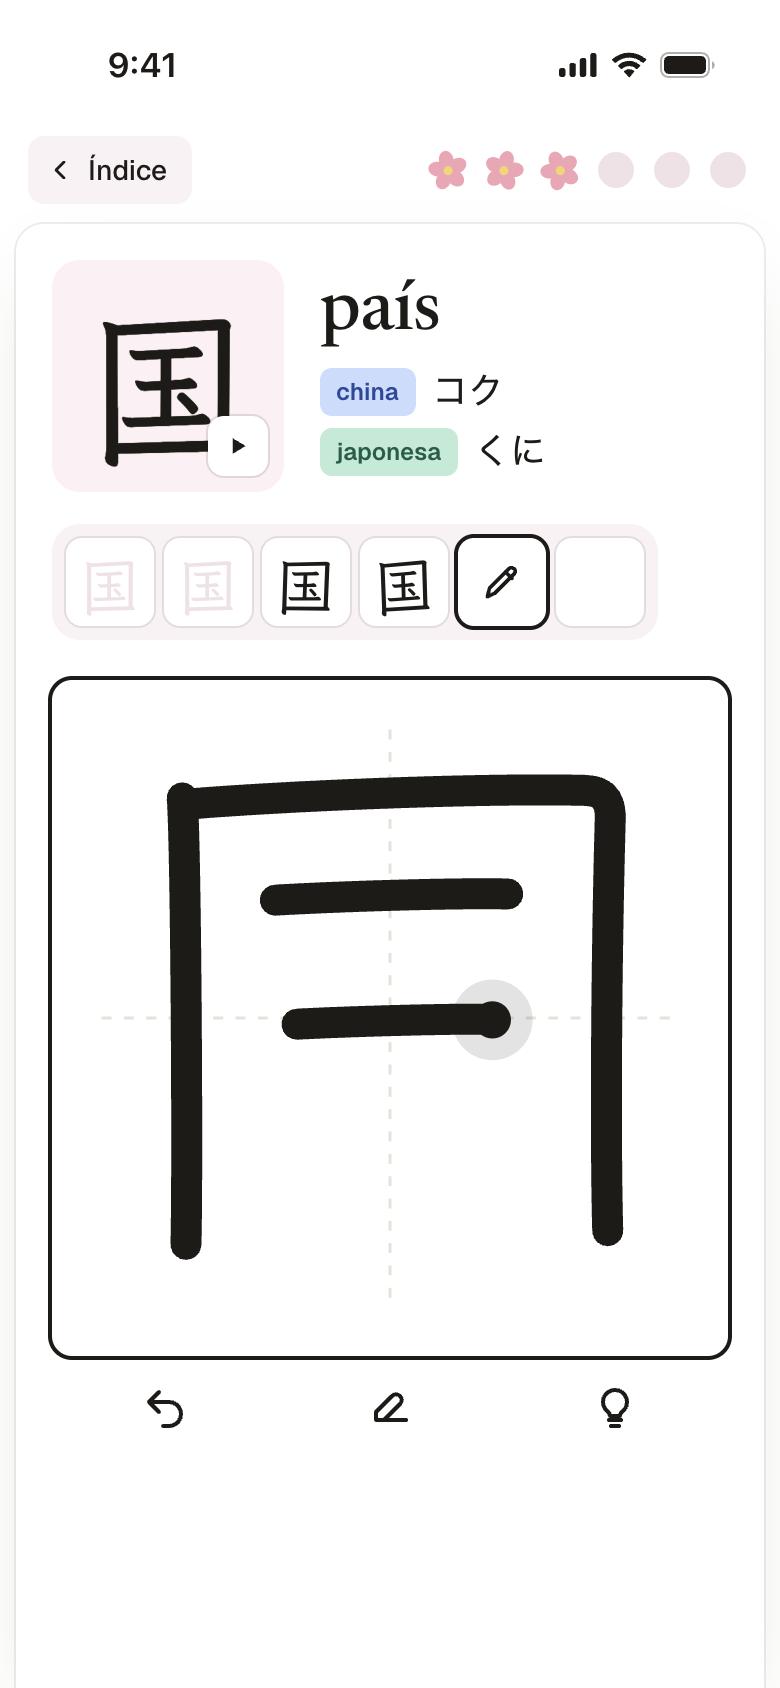
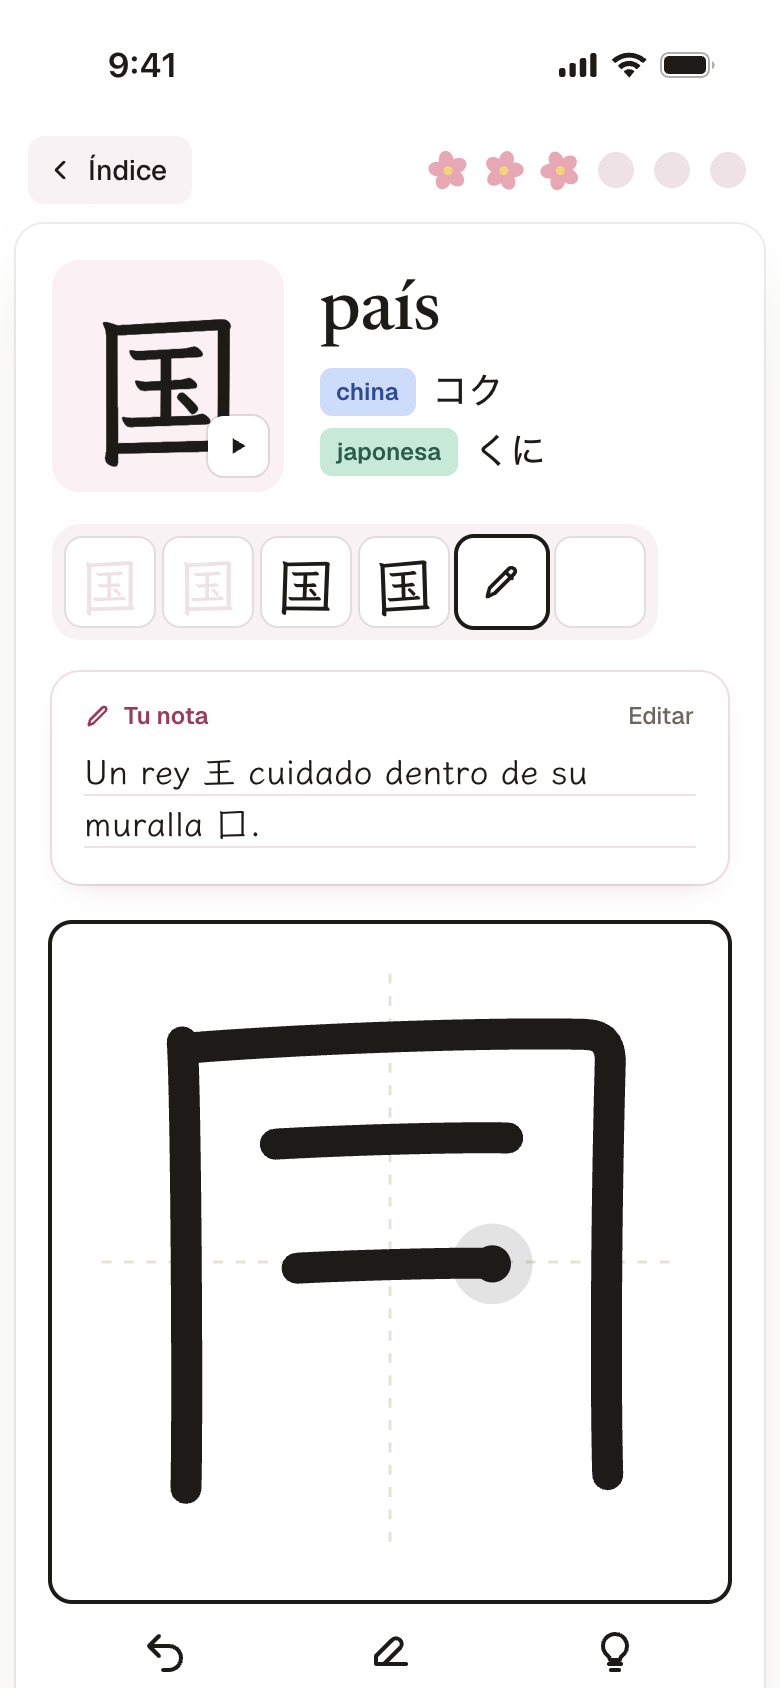
NOE-559 Quitar todas las sticky notes: la nota propia pasa a tarjeta con renglones

diff --git a/docs/DESIGN.md b/docs/DESIGN.md
@@ -32,7 +32,7 @@ los de repaso, examen, estados, cuenta y créditos. Exportes en `docs/rediseno/d
 | sakura | `#FDF0F3` fondo, `#FBE4EA` chip, `#C2456A` y `#9E2A44` tinta | color de Kanjy: kanji grande, repaso, «Otra vez», frases |
 | lectura china | `#CADDFF` / `#234A9C` | etiqueta «china» |
 | lectura japonesa | `#BDEBD6` / `#0D5E46` | etiqueta «japonesa» |
-| marcatextos | `#FFE08A` | resaltar el kanji dentro de una frase; nota propia |
+| marcatextos | `#FFE08A` | solo resaltar el kanji dentro de una frase |
 | pluma roja | `#C8402F` | solo correcciones y 花丸 |
 | niveles (solo selector y escritorio) | N4 `#FFE08A`, N3 `#BDEBD6`, N2 `#CADDFF`, N1 `#E3D5FF` | |
 
@@ -67,7 +67,7 @@ las secciones se separan con espacio y superficies.
 | Pieza | Función |
 |---|---|
 | Stickers sakura | progreso del día y días de la semana, sin rachas que castigan |
-| Nota propia (sticky) | mnemotecnia del estudiante, una por kanji, se puede mover. Solo para lo que escribe el estudiante, nunca para consejos de la app |
+| Nota propia | mnemotecnia del estudiante, una por kanji: tarjeta blanca con renglones y «Tu nota» en vino. Nunca post-it ni sticky note, en ninguna pantalla |
 | Marcatextos | el kanji estudiado dentro de una frase |
 | 花丸 y círculo rojo | acierto y calificación del examen |
 | Sello 済 | lecciones terminadas en el índice |
